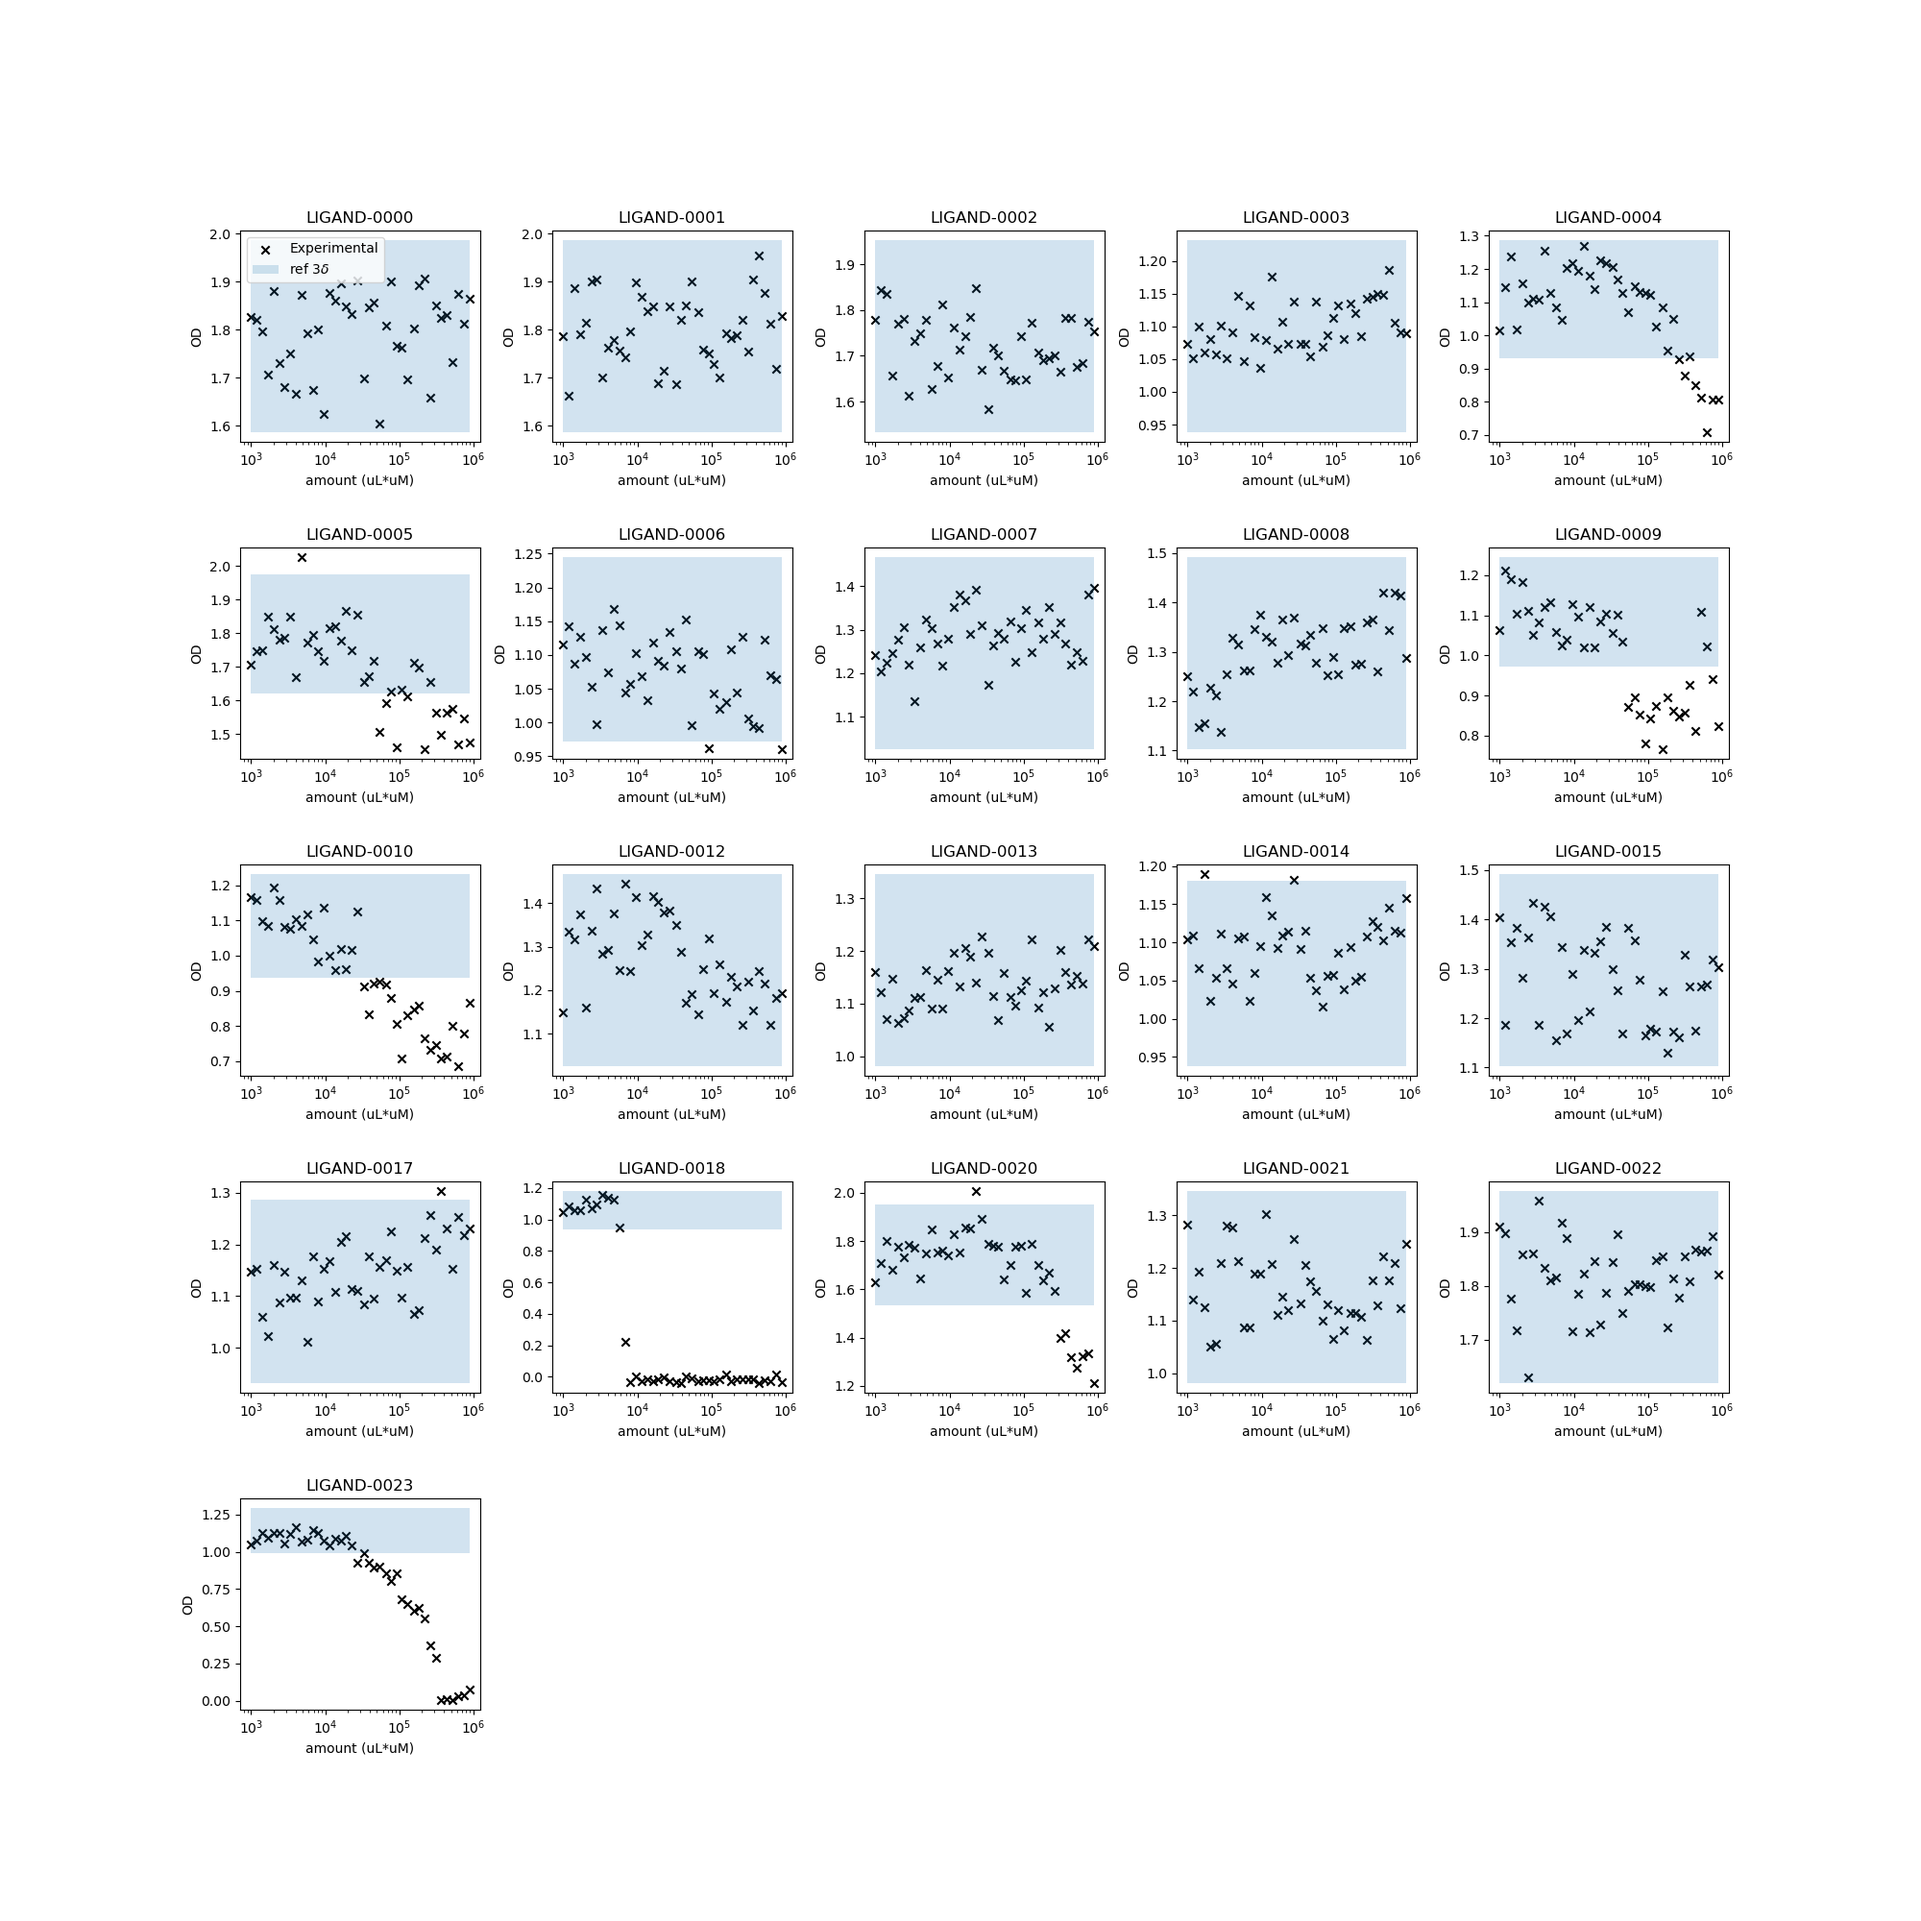
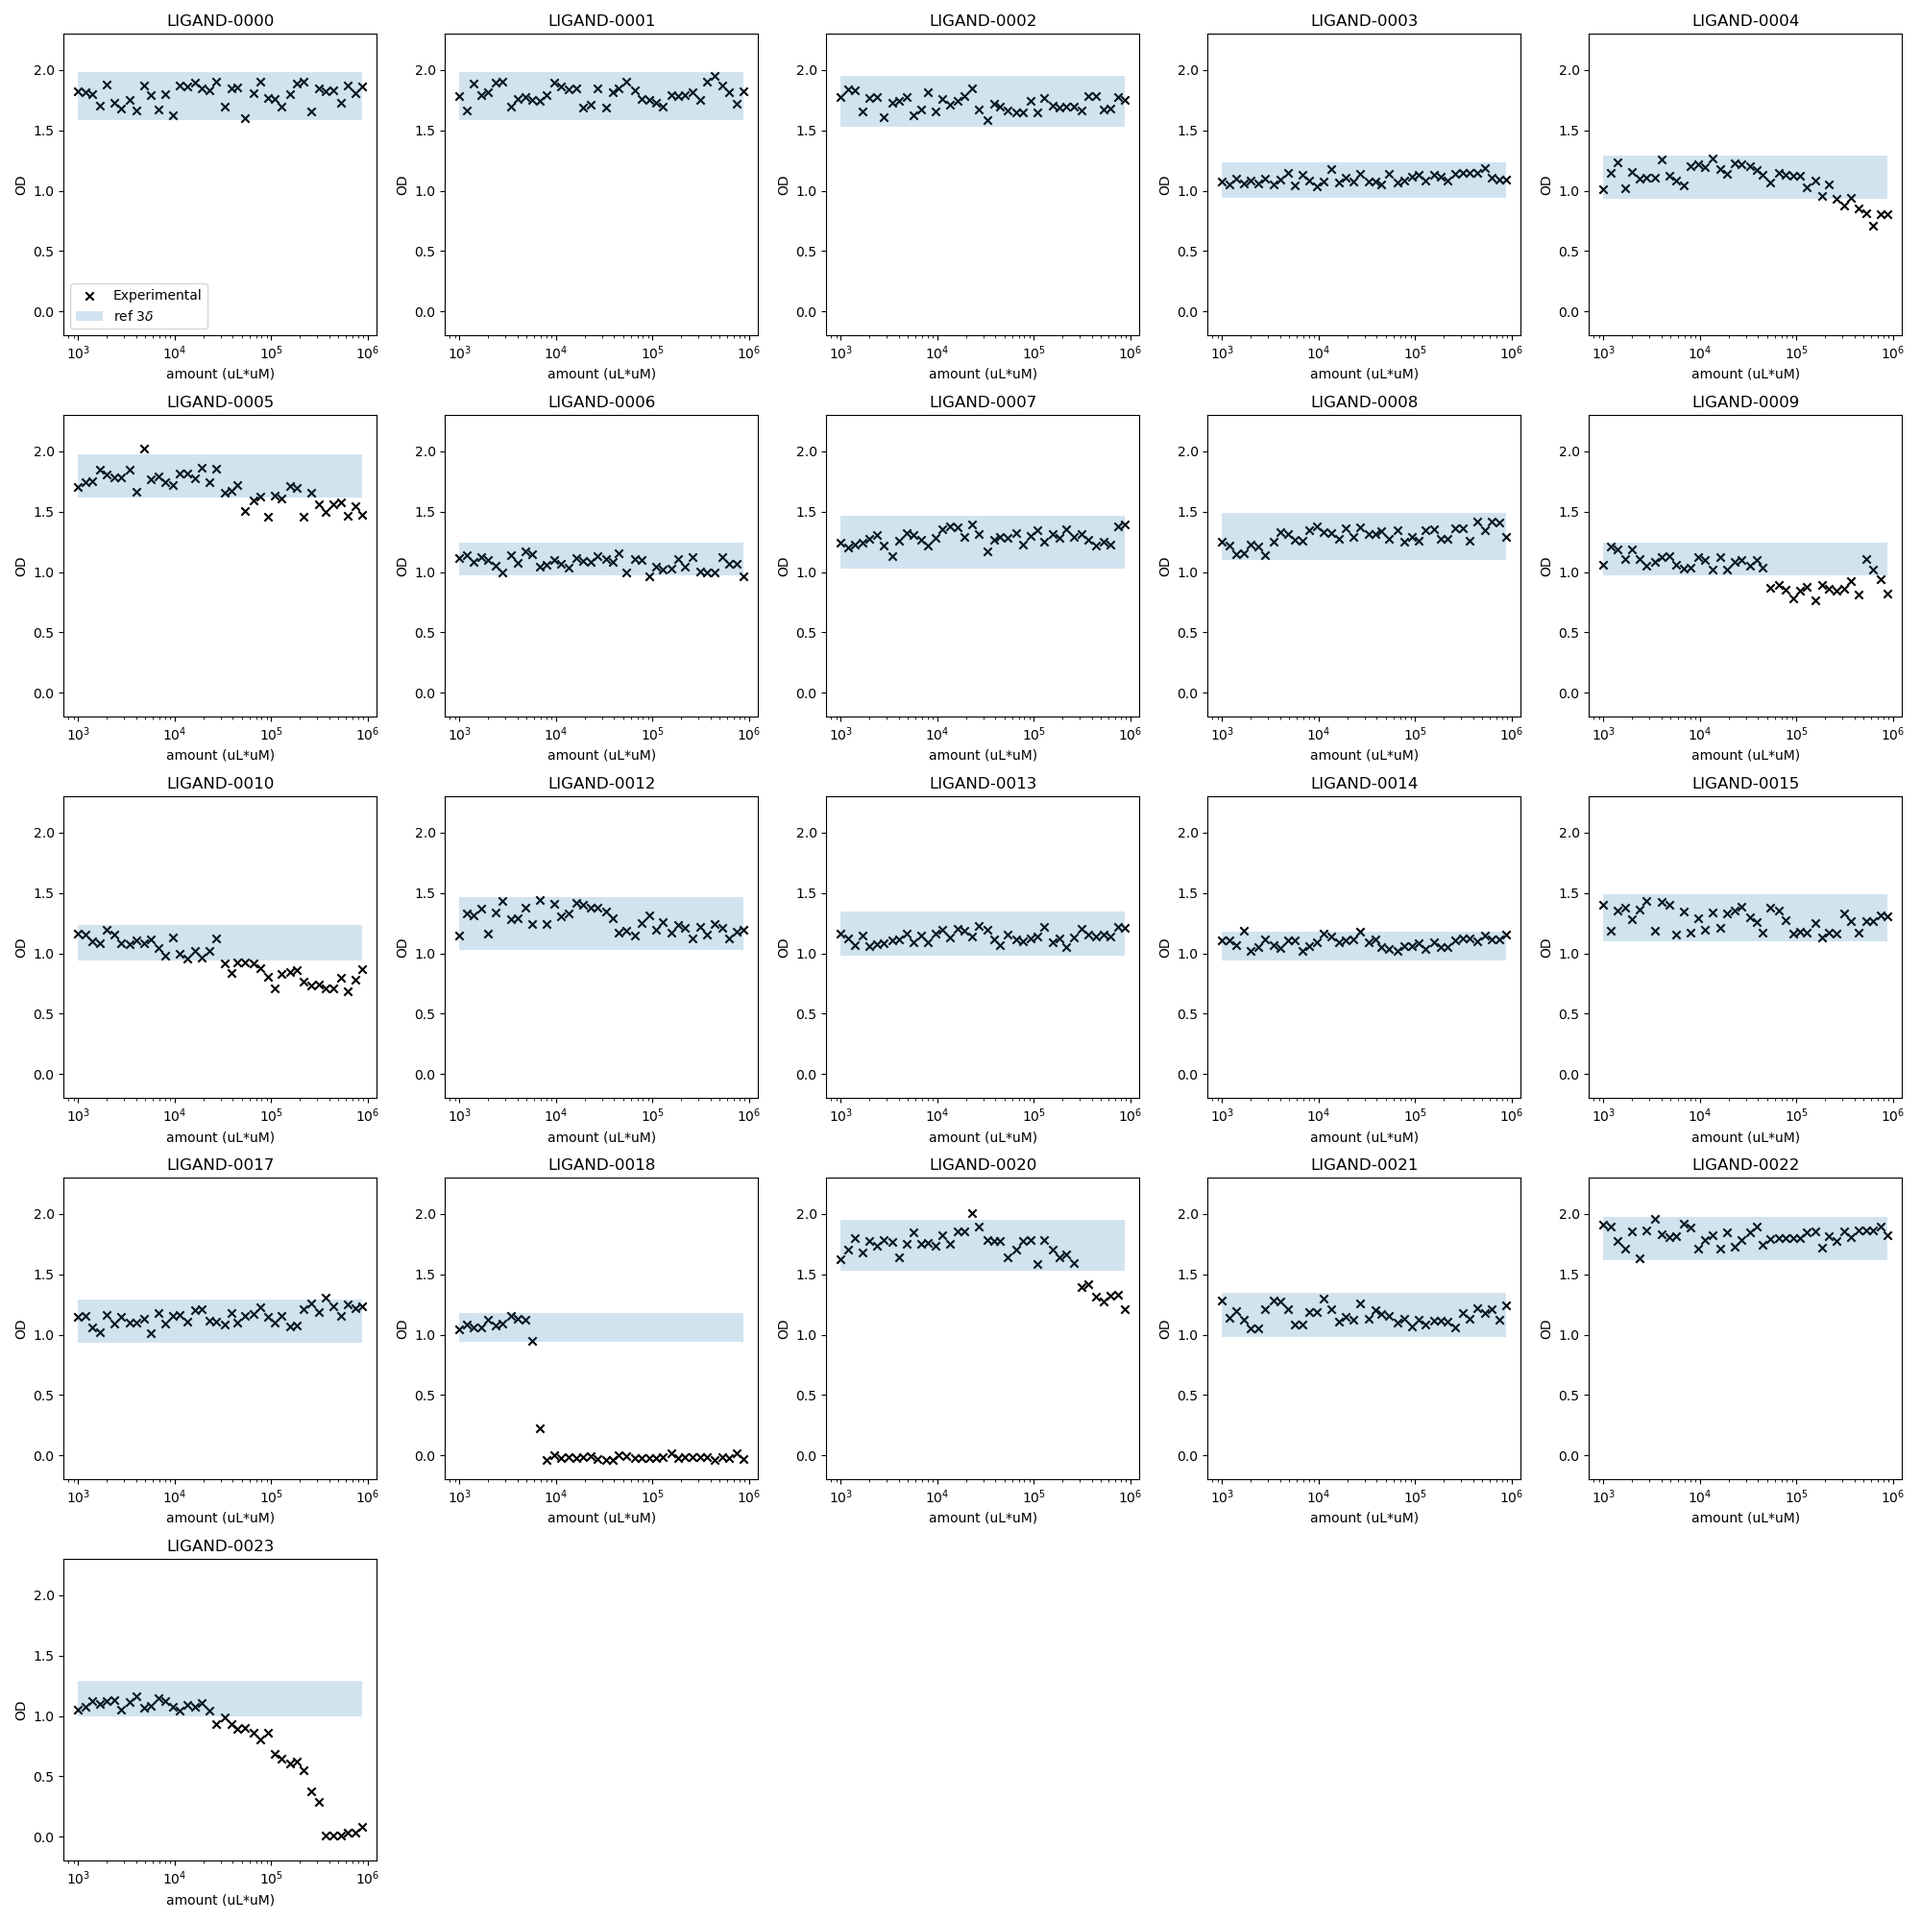
update visualizations

diff --git a/workplace/SingleLigandCampaign/analysis/plot_results.py b/workplace/SingleLigandCampaign/analysis/plot_results.py
@@ -1,53 +1,23 @@
+from typing import Callable
+
 import matplotlib.pyplot as plt
 import numpy as np
 
-from lsal.campaign.loader import ReactionCollection, LigandExchangeReaction, Molecule
+from lsal.campaign.loader import ReactionCollection, LigandExchangeReaction, get_od, get_sumod, \
+    get_target_data
 from lsal.utils import json_load, get_basename
 
 
-def get_od(r: LigandExchangeReaction):
-    for k in r.properties:
-        if k.strip("'").endswith("_PL_OD390"):
-            v = r.properties[k]
-            assert isinstance(v, float)
-            return v
-    raise KeyError
+def mpl_plot_per_ligand_results(
+        reaction_collection: ReactionCollection,
+        get_function: Callable[[LigandExchangeReaction, ...], float] = get_sumod,
+        ylim=(2e5, 5.5e5),
+        ylabel="sum/OD",
+        logx=True,
+):
+    ligand_to_results = get_target_data(reaction_collection, get_function)
 
-
-def get_sumod(r: LigandExchangeReaction):
-    for k in r.properties:
-        if k.strip("'").endswith("_PL_sum/OD390"):
-            v = r.properties[k]
-            assert isinstance(v, float)
-            return v
-    raise KeyError
-
-
-def get_target_data(reaction_collection: ReactionCollection, get_function=get_od):
-    ligand_to_reactions = reaction_collection.get_lcomb_to_reactions()
-    ligand_to_reactions = {k[0]: v for k, v in ligand_to_reactions.items()}
-    data = dict()
-    for ligand, reactions in ligand_to_reactions.items():
-        amounts = []
-        amount_units = []
-        values = []
-        ref_values = []
-        for r in reactions:
-            r: LigandExchangeReaction
-            reference_reactions = reaction_collection.get_reference_reactions(r)
-            ref_values += [get_function(refr) for refr in reference_reactions]
-            amount = r.ligand_solutions[0].amount
-            amount_unit = r.ligand_solutions[0].amount_unit
-            amount_units.append(amount_unit)
-            value = get_function(r)
-            amounts.append(amount)
-            values.append(value)
-        data[ligand] = {"amount": amounts, "amount_unit": amount_units[0], "values": values, "ref_values": ref_values}
-    return data
-
-
-def plot_od_persis(od_data: dict[Molecule, dict[str, list[float]]], ylabel="OD"):
-    ligands = sorted(od_data.keys())
+    ligands = sorted(ligand_to_results.keys())
     ncols = 5
     nrows = len(ligands) // ncols + 1
     fig, total_axes = plt.subplots(nrows=nrows, ncols=ncols,
@@ -59,7 +29,7 @@ def plot_od_persis(od_data: dict[Molecule, dict[str, list[float]]], ylabel="OD")
     for iax, ligand in enumerate(ligands):
         ax = total_axes[iax // ncols][iax % ncols]
         ax.set_axis_on()
-        data = od_data[ligand]
+        data = ligand_to_results[ligand]
         xs = data["amount"]
         ys = data["values"]
         y_ref = np.mean(data["ref_values"])
@@ -69,23 +39,22 @@ def plot_od_persis(od_data: dict[Molecule, dict[str, list[float]]], ylabel="OD")
         ax.scatter(xs, ys, marker="x", c="k", label="Experimental")
         ax.fill_between(sorted(xs), y_ref - 3 * y_ref_err, y_ref + 3 * y_ref_err, alpha=0.2, label=r"ref $3\delta$")
         ax.set_title(ligand.label)
-        ax.set_xscale("log")
-        # ax.set_ylim([-0.2, 2.3])
+        if logx:
+            ax.set_xscale("log")
+        ax.set_ylim(ylim)
         ax.set_xlabel("amount (uL*uM)")
         ax.set_ylabel(ylabel)
         if iax == 0:
             ax.legend()
-    fig.subplots_adjust(hspace=0.5, wspace=0.3)
+    fig.tight_layout()
     return fig
 
 
 if __name__ == '__main__':
     reactions = json_load("../data/collect_reactions_SL_0519.json")
 
-    od_data = get_target_data(reactions, get_od)
-    fig_od = plot_od_persis(od_data, ylabel="OD")
-    fig_od.savefig(get_basename(__file__) + "_od.png")
-
-    sumod_data = get_target_data(reactions, get_sumod)
-    fig_sumod = plot_od_persis(sumod_data, ylabel="sum/OD")
+    fig_sumod = mpl_plot_per_ligand_results(reactions, )
     fig_sumod.savefig(get_basename(__file__) + "_sumod.png")
+
+    fig_od = mpl_plot_per_ligand_results(reactions, get_od, (-0.2, 2.3), "OD", True)
+    fig_od.savefig(get_basename(__file__) + "_od.png")

diff --git a/lsal/utils.py b/lsal/utils.py
@@ -1,3 +1,4 @@
+import collections
 import functools
 import itertools
 import json
@@ -8,8 +9,8 @@ import pickle
 import re
 import time
 import typing
-import collections
 from datetime import datetime
+
 import monty.json
 import numpy as np
 import pandas as pd
@@ -190,19 +191,23 @@ def pkl_load(fn: FilePath, print_timing=True):
         print("loaded {} in: {:.4f} s".format(os.path.basename(fn), ts2 - ts1))
     return d
 
+
 def read_smi(smifile: FilePath):
     with open(smifile, "r") as f:
         lines = f.readlines()
     return [smi.strip() for smi in lines if len(smi.strip()) > 0]
+
 
 def write_smi(smis: list[str], outfile: FilePath):
     with open(outfile, "w") as f:
         for smi in smis:
             f.write(smi + "\n")
 
+
 def remove_stereo(smi: str):
     smi = smi.replace("/", "").replace("\\", "").replace("@", "").replace("@@", "")
     return smi
+
 
 def parse_formula(formula: str) -> dict[str, float]:  # from pymatgen
     def get_sym_dict(form: str, factor) -> dict[str, float]:
@@ -229,6 +234,7 @@ def parse_formula(formula: str) -> dict[str, float]:  # from pymatgen
         return parse_formula(expanded_formula)
     return get_sym_dict(formula, 1)
 
+
 def createdir(directory):
     """
     mkdir
@@ -238,17 +244,36 @@ def createdir(directory):
     if not os.path.exists(directory):
         os.makedirs(directory)
 
+
 def get_timestamp():
     return int(datetime.now().timestamp() * 1000)
 
-def removefile(what:FilePath):
+
+def removefile(what: FilePath):
     try:
         os.remove(what)
     except OSError:
         pass
+
 
 def removefolder(what: FilePath):
     try:
         os.rmdir(what)
     except OSError:
         pass
+
+
+def is_close(a: float, b: float, eps=1e-5):
+    return abs(a - b) < eps
+
+def is_close_relative(a: float, b:float, eps=1e-5):
+    aa = abs(a)
+    bb = abs(b)
+    return abs(a-b)/min([aa, bb]) < eps
+
+
+def is_close_list(lst: list[float], eps=1e-5):
+    for i, j in itertools.combinations(lst, 2):
+        if is_close(i, j, eps):
+            return True
+    return False
